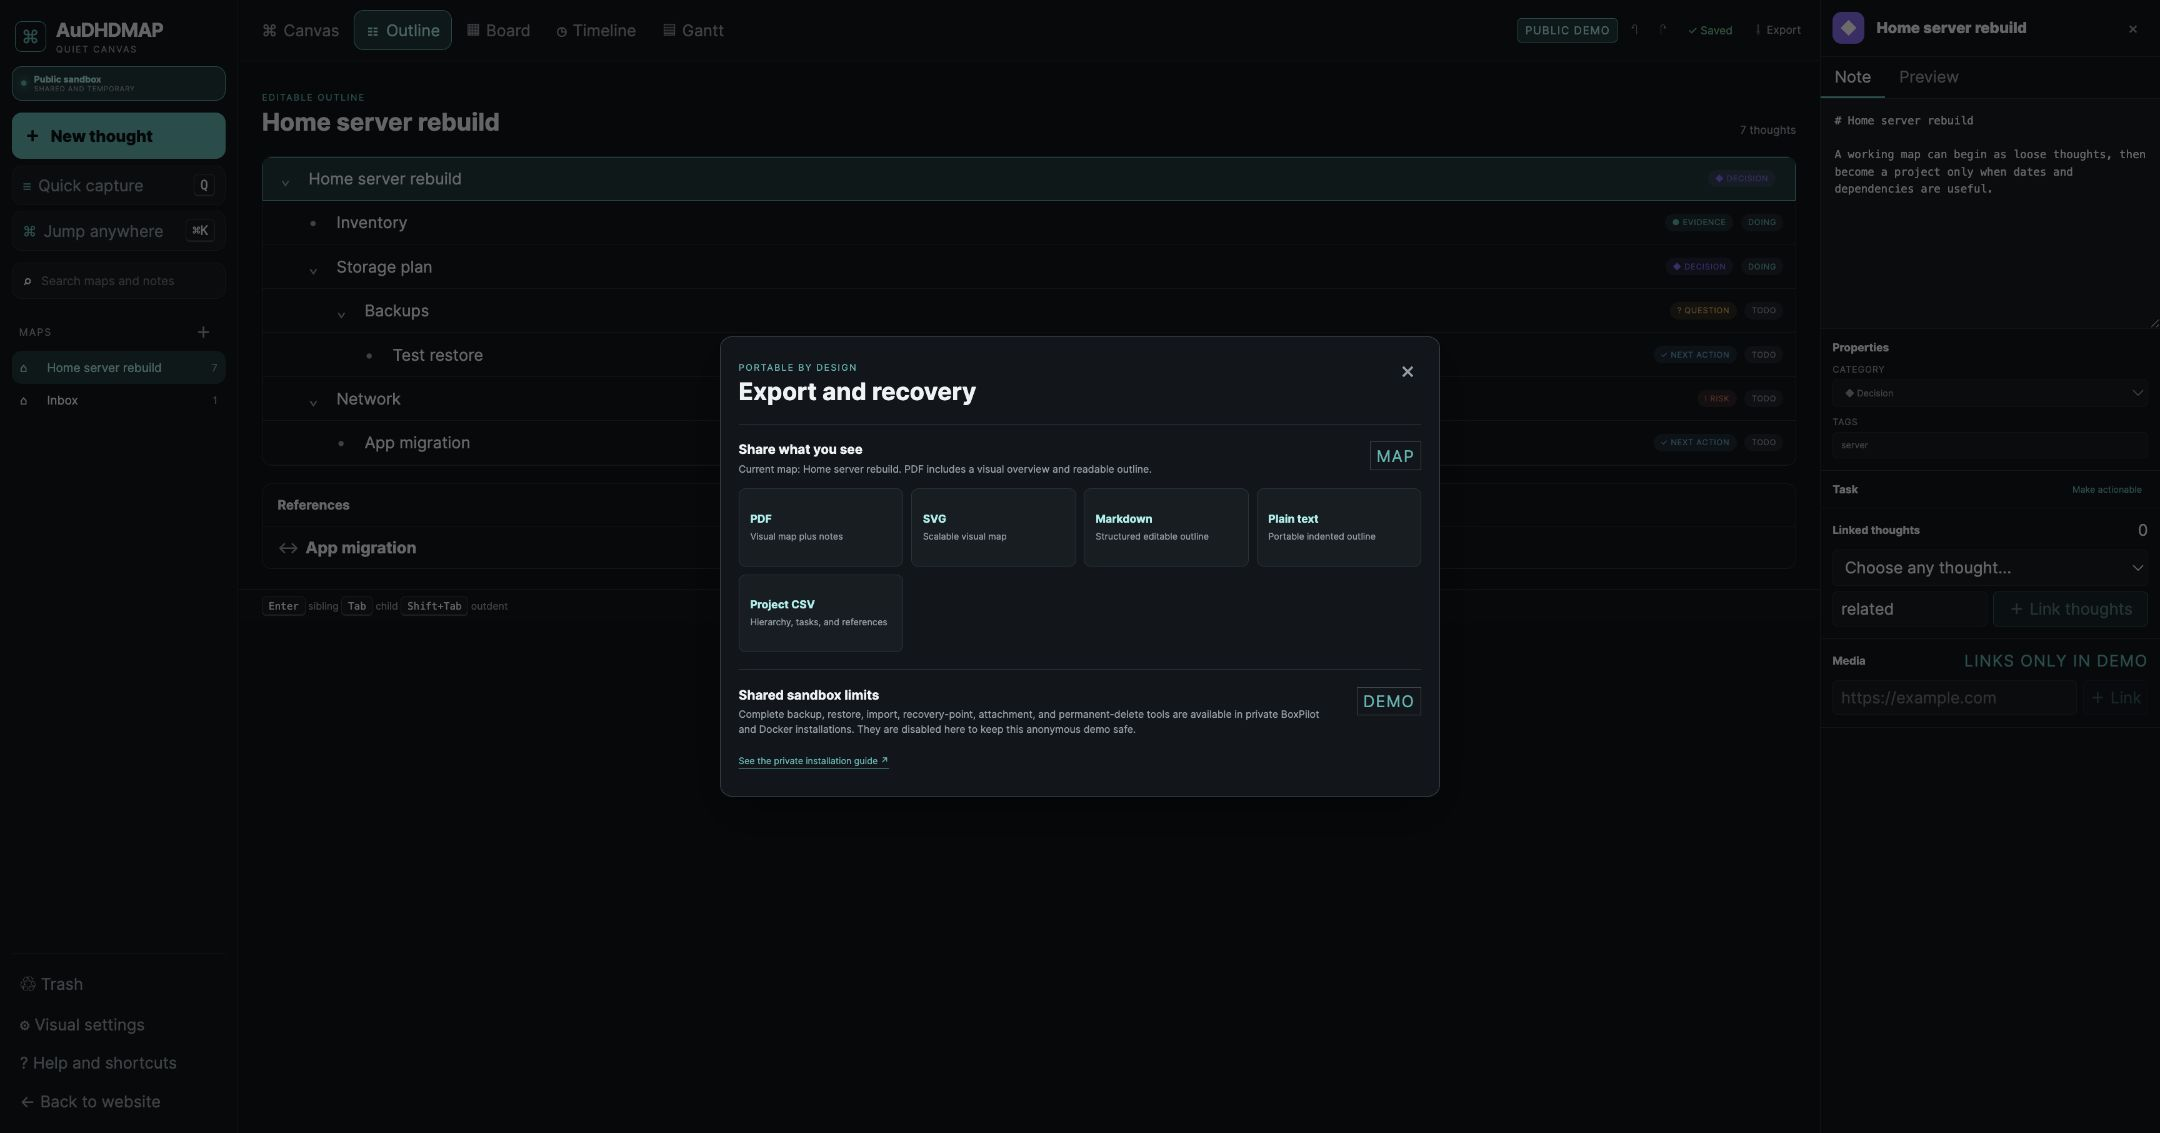
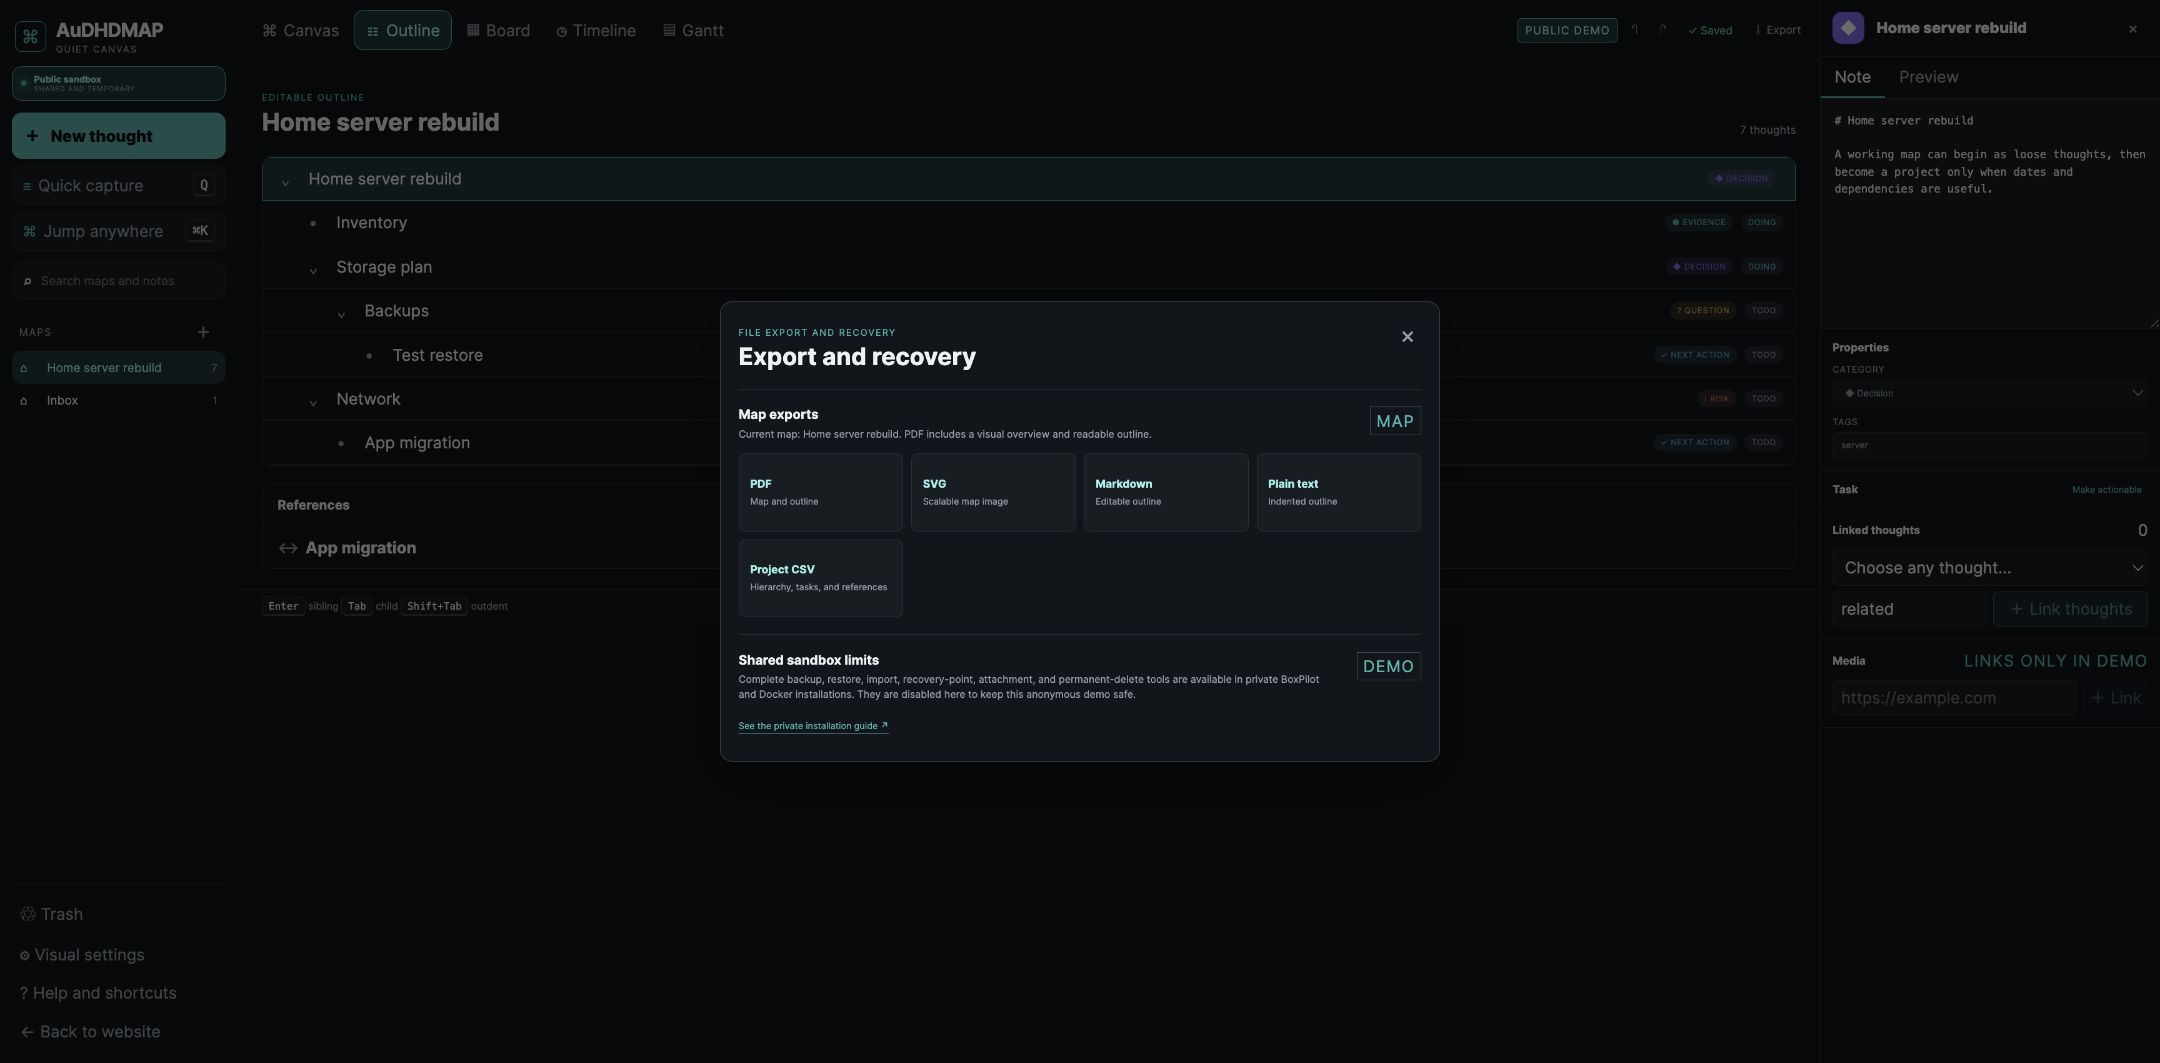
Use direct labels in app dialogs

diff --git a/src/WorkspaceApp.tsx b/src/WorkspaceApp.tsx
@@ -761,7 +761,7 @@ function TrashDialog({ nodes, maps, publicDemo, purgingId, onRestore, onPurge, o
   const visible = ordered.slice(0, visibleCount);
   useEffect(() => { if (confirmId && !nodes.some((node) => node.id === confirmId)) setConfirmId(null); }, [confirmId, nodes]);
   return <div className="dialog-backdrop" onMouseDown={(event) => event.target === event.currentTarget && !purgingId && onClose()}><section ref={dialogRef} onKeyDown={onDialogKeyDown} className={`trash-dialog ${publicDemo ? "public-demo-trash" : ""}`} role="dialog" aria-modal="true" aria-labelledby="trash-title">
-    <header><div><span className="eyebrow">Recoverable by default</span><h2 id="trash-title">Trash</h2></div><button autoFocus aria-label="Close trash" disabled={Boolean(purgingId)} onClick={onClose}>×</button></header>
+    <header><div><span className="eyebrow">Deleted thoughts</span><h2 id="trash-title">Trash</h2></div><button autoFocus aria-label="Close trash" disabled={Boolean(purgingId)} onClick={onClose}>×</button></header>
     <p>{publicDemo ? "Trashed thoughts stay out of maps, search, projects, and exports. You can restore them while this shared sandbox is available." : "Trashed thoughts stay out of maps, search, projects, and ordinary exports. Complete ZIP backups still include them and their attachments."}</p>
     {ordered.length === 0 ? <div className="trash-empty"><span>♲</span><strong>Trash is empty</strong><small>Deleting a thought moves it here first.</small></div> : <><div className="trash-list">{visible.map((node) => <article key={node.id}>
       <div><strong>{node.title}</strong><small>{mapById.get(node.mapId)?.title ?? "Unknown map"} · {node.attachments.length} attachment{node.attachments.length === 1 ? "" : "s"}</small></div>
@@ -863,13 +863,13 @@ function ExportDialog({ workspace, mapId, focusId, publicDemo, restoring, onRest
   }
 
   return <div className="dialog-backdrop" onMouseDown={(event) => event.target === event.currentTarget && !busy && onClose()}><section ref={dialogRef} onKeyDown={onDialogKeyDown} className="export-dialog" role="dialog" aria-modal="true" aria-labelledby="export-title">
-    <header><div><span className="eyebrow">Portable by design</span><h2 id="export-title">Export and recovery</h2></div><button autoFocus aria-label="Close export" disabled={busy} onClick={onClose}>×</button></header>
-    <section className="export-section"><div className="export-heading"><div><h3>Share what you see</h3><p>{scope}. PDF includes a visual overview and readable outline.</p></div><span>{focus ? "BRANCH" : "MAP"}</span></div>
+    <header><div><span className="eyebrow">File export and recovery</span><h2 id="export-title">Export and recovery</h2></div><button autoFocus aria-label="Close export" disabled={busy} onClick={onClose}>×</button></header>
+    <section className="export-section"><div className="export-heading"><div><h3>Map exports</h3><p>{scope}. PDF includes a visual overview and readable outline.</p></div><span>{focus ? "BRANCH" : "MAP"}</span></div>
       <div className="export-grid">
-        {pdfTooLarge ? <div className="disabled-export" role="status"><strong>PDF</strong><span>Focus a branch of 1,000 thoughts or fewer</span></div> : <a href={mapExportUrl("pdf", mapId, focusId)} download><strong>PDF</strong><span>Visual map plus notes</span></a>}
-        <a href={mapExportUrl("svg", mapId, focusId)} download><strong>SVG</strong><span>Scalable visual map</span></a>
-        <a href={mapExportUrl("md", mapId, focusId)} download><strong>Markdown</strong><span>Structured editable outline</span></a>
-        <a href={mapExportUrl("txt", mapId, focusId)} download><strong>Plain text</strong><span>Portable indented outline</span></a>
+        {pdfTooLarge ? <div className="disabled-export" role="status"><strong>PDF</strong><span>Focus a branch of 1,000 thoughts or fewer</span></div> : <a href={mapExportUrl("pdf", mapId, focusId)} download><strong>PDF</strong><span>Map and outline</span></a>}
+        <a href={mapExportUrl("svg", mapId, focusId)} download><strong>SVG</strong><span>Scalable map image</span></a>
+        <a href={mapExportUrl("md", mapId, focusId)} download><strong>Markdown</strong><span>Editable outline</span></a>
+        <a href={mapExportUrl("txt", mapId, focusId)} download><strong>Plain text</strong><span>Indented outline</span></a>
         <a href={mapExportUrl("csv", mapId, focusId)} download><strong>Project CSV</strong><span>Hierarchy, tasks, and references</span></a>
       </div>
     </section>

diff --git a/src/LandingPage.tsx b/src/LandingPage.tsx
@@ -34,7 +34,7 @@ export function LandingPage() {
     <main id="top">
       <section className="site-hero">
         <div className="site-hero-copy">
-          <div className="site-kicker"><i /> VERSION 0.7.1 <span>PUBLIC DEMO</span></div>
+          <div className="site-kicker"><i /> VERSION 0.7.2 <span>PUBLIC DEMO</span></div>
           <h1>Self-hosted mind mapping <em>and notes.</em></h1>
           <p>AuDHDMAP runs in one Docker container. It provides Canvas, Outline, Board, Timeline, and Gantt views over the same workspace data.</p>
           <div className="site-actions"><a className="site-button" href="/demo">Open demo <span aria-hidden="true">↗</span></a><a className="site-text-link" href="https://github.com/AES256Afro/AuDHDMAP">Source code <span aria-hidden="true">↗</span></a></div>
@@ -59,7 +59,7 @@ export function LandingPage() {
       </section>
 
       <section className="site-section site-screens" id="screens">
-        <header className="site-section-heading"><div><span className="site-label">INTERFACE</span><h2>Canvas, outline, and export</h2></div><p>These screenshots were captured from version 0.7.1.</p></header>
+        <header className="site-section-heading"><div><span className="site-label">INTERFACE</span><h2>Canvas, outline, and export</h2></div><p>These screenshots were captured from version 0.7.2.</p></header>
         <div className="screen-story">
           <article className="screen-story-copy"><span>01 / CANVAS</span><h3>Canvas view</h3><p>Place, move, connect, and group thoughts on a pan-and-zoom canvas.</p><ul><li>Pan and zoom</li><li>Tree and grid layouts</li><li>Cross-map references</li><li>Branch focus</li></ul></article>
           <div className="screen-frame large"><div className="screen-bar"><span>SPATIAL WORKSPACE</span><i /><i /><i /></div><img src="/site/canvas-map.jpg" alt="Freeform AuDHDMAP canvas with linked thoughts and a details inspector" /></div>
@@ -87,7 +87,7 @@ export function LandingPage() {
       <section className="site-final-cta"><span className="site-label">PUBLIC DEMO</span><h2>Shared test workspace</h2><p>No password is required. Data is shared with other visitors and can be reset. Do not enter private information.</p><a className="site-button" href="/demo">Open demo <span aria-hidden="true">↗</span></a></section>
     </main>
 
-    <footer className="site-footer"><a className="site-brand" href="#top"><span>⌘</span><strong>AuDHDMAP</strong></a><p>Version 0.7.1</p><nav><a href="https://github.com/AES256Afro/AuDHDMAP">Source</a><a href="https://github.com/AES256Afro/AuDHDMAP/blob/main/docs/SECURITY.md">Security</a><a href="/demo">Demo</a></nav></footer>
+    <footer className="site-footer"><a className="site-brand" href="#top"><span>⌘</span><strong>AuDHDMAP</strong></a><p>Version 0.7.2</p><nav><a href="https://github.com/AES256Afro/AuDHDMAP">Source</a><a href="https://github.com/AES256Afro/AuDHDMAP/blob/main/docs/SECURITY.md">Security</a><a href="/demo">Demo</a></nav></footer>
     <div className="site-scanlines" aria-hidden="true" />
   </div>;
 }

diff --git a/README.md b/README.md
@@ -4,7 +4,7 @@ AuDHDMAP is a private, self-hosted mind-mapping and note-taking workspace. Captu
 
 ![AuDHDMAP Signal Garden canvas](public/site/canvas-map.jpg)
 
-## What works in 0.7.1
+## What works in 0.7.2
 
 - Free pan-and-zoom canvas with draggable nodes, branches, two-way labeled references, editable group boundaries, grid snapping, and explicit tree or grid auto-layout.
 - Strict Branch Focus that shows the selected branch, its ancestors, descendants, and explicit references while hiding unrelated clutter.
@@ -75,7 +75,7 @@ The development login is `owner` with password `boxpilot`. Development data is w
 ```sh
 npm run check
 npm audit
-docker build -t audhdmap:0.7.1 .
+docker build -t audhdmap:0.7.2 .
 ```
 
 The health endpoint is available without authentication at `/api/health`. It reports only application version, storage readiness, revision, bounded object counts, and recovery-point health counts. It never returns workspace content, filenames, point identifiers, or error details.
@@ -84,7 +84,7 @@ The health endpoint is available without authentication at `/api/health`. It rep
 
 The production image is designed for BoxPilot's generic application catalog:
 
-- image: `ghcr.io/aes256afro/audhdmap:0.7.1`
+- image: `ghcr.io/aes256afro/audhdmap:0.7.2`
 - container port: `3010`
 - persistent volume: `/data`
 - required generated secrets: `AUDHDMAP_ADMIN_PASSWORD` and `AUDHDMAP_SESSION_SECRET`

diff --git a/docs/SECURITY.md b/docs/SECURITY.md
@@ -2,7 +2,7 @@
 
 ## Intended boundary
 
-AuDHDMAP 0.7.1 is a private, single-owner application by default. It is suitable for a trusted individual or household behind BoxPilot, a private network, a VPN, or a carefully configured HTTPS reverse proxy. It is not a multi-tenant collaboration service and does not implement per-map roles or user isolation.
+AuDHDMAP 0.7.2 is a private, single-owner application by default. It is suitable for a trusted individual or household behind BoxPilot, a private network, a VPN, or a carefully configured HTTPS reverse proxy. It is not a multi-tenant collaboration service and does not implement per-map roles or user isolation.
 
 The separate `AUDHDMAP_PUBLIC_DEMO=1` deployment mode is only for a disposable shared product sandbox. It intentionally permits anonymous workspace reads, edits, and map-level exports. It disables operations that can upload, restore, retain, or permanently erase shared data. This mode must never hold private or durable notes.
 

diff --git a/docs/OPERATIONS.md b/docs/OPERATIONS.md
@@ -144,7 +144,7 @@ On the first deployment, store a random `AUDHDMAP_SESSION_SECRET` with `wrangler
 
 The demo's container-local `/data` is not a production backup target. A replacement or rollout can return it to the seed workspace. Keep real work in a durable BoxPilot or Docker deployment.
 
-## Limits in 0.7.1
+## Limits in 0.7.2
 
 - 200 maps
 - 10,000 thoughts

diff --git a/CHANGELOG.md b/CHANGELOG.md
@@ -1,5 +1,9 @@
 # Changelog
 
+## 0.7.2
+
+- Replace slogan-style labels in the export and trash dialogs with direct technical labels.
+
 ## 0.7.1
 
 - Replace promotional website copy with concise technical descriptions of the application, runtime, storage, views, exports, deployment requirements, and public-demo limits.
